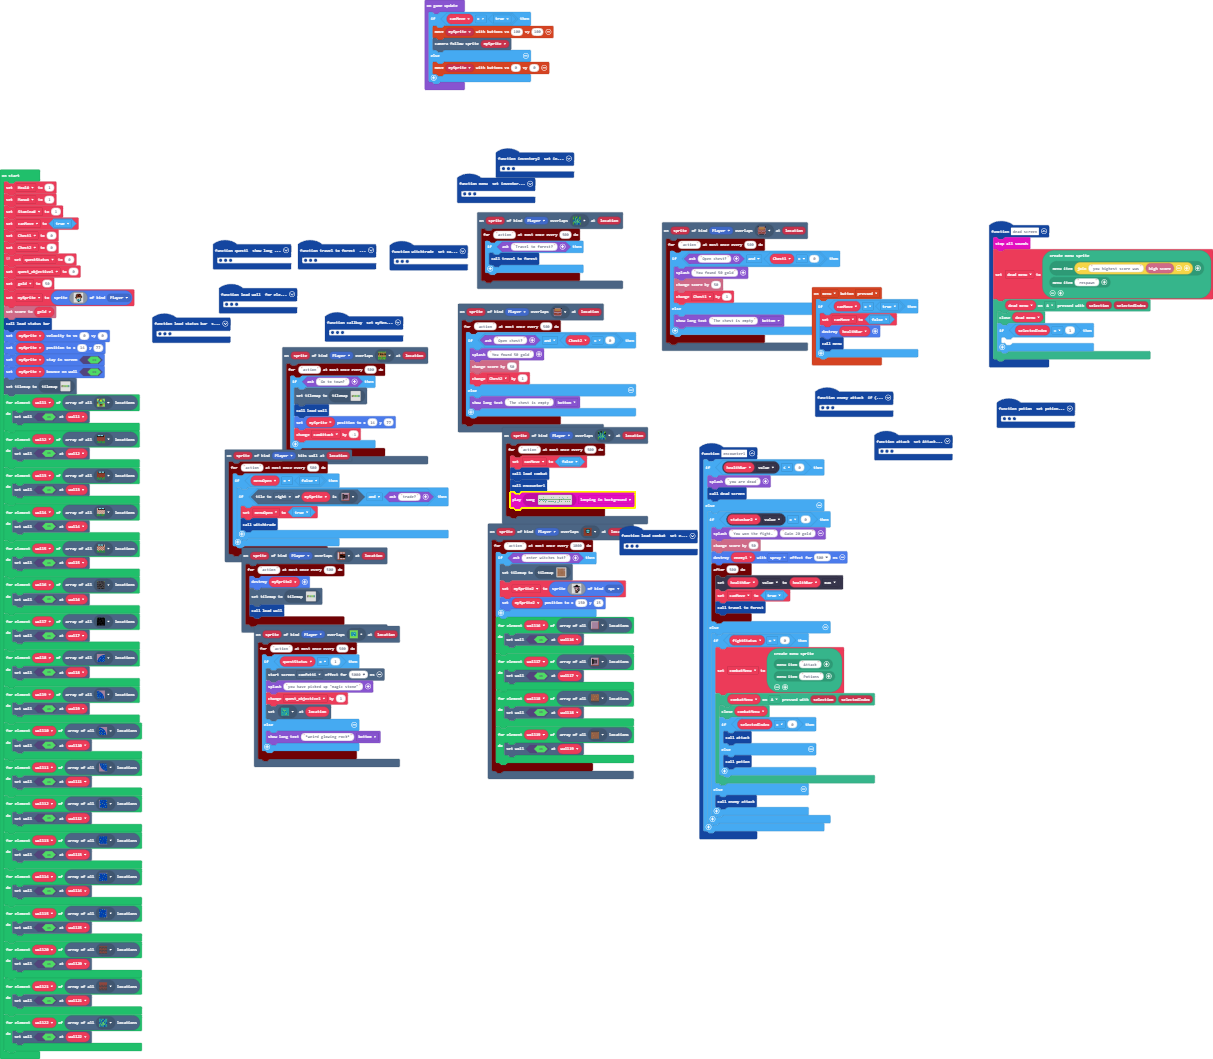
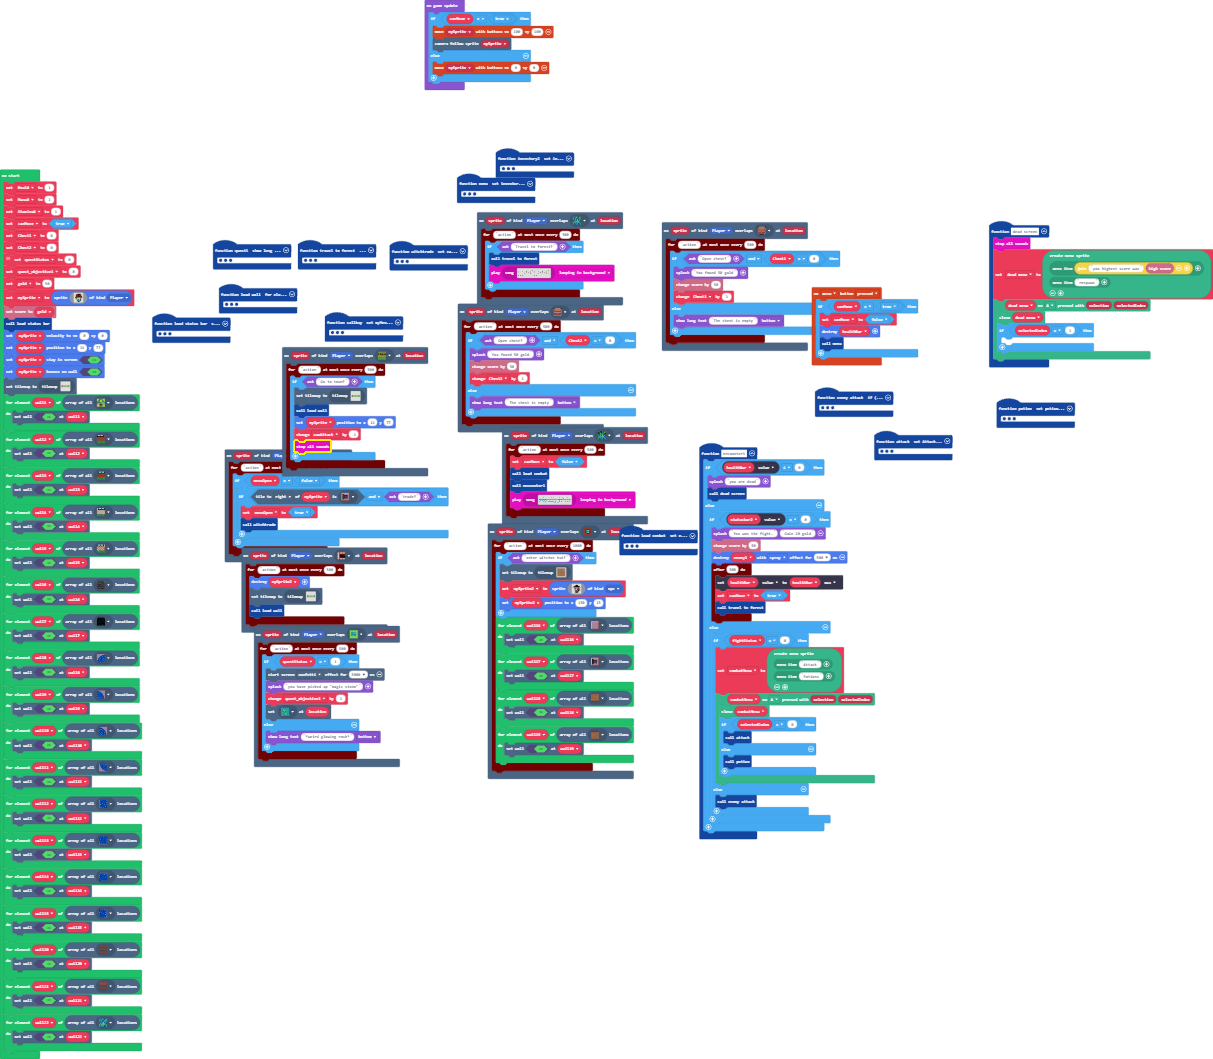
Update main.blocks, main.ts

Changed region(s): [[0.2135, 0.4051, 0.366, 0.4674], [0.3965, 0.2493, 0.5185, 0.3116]]

diff --git a/main.ts b/main.ts
@@ -325,6 +325,7 @@ scene.onOverlapTile(SpriteKind.Player, assets.tile`myTile57`, function (sprite, 
             load_wall()
             mySprite.setPosition(14, 77)
             canAttack += -1
+            music.stopAllSounds()
         }
     })
 })
@@ -440,6 +441,7 @@ scene.onOverlapTile(SpriteKind.Player, assets.tile`myTile53`, function (sprite, 
     timer.throttle("action", 500, function () {
         if (game.ask("Travel to forest?")) {
             travel_to_forest()
+            music.play(music.createSong(assets.song`the woods`), music.PlaybackMode.LoopingInBackground)
         }
     })
 })
